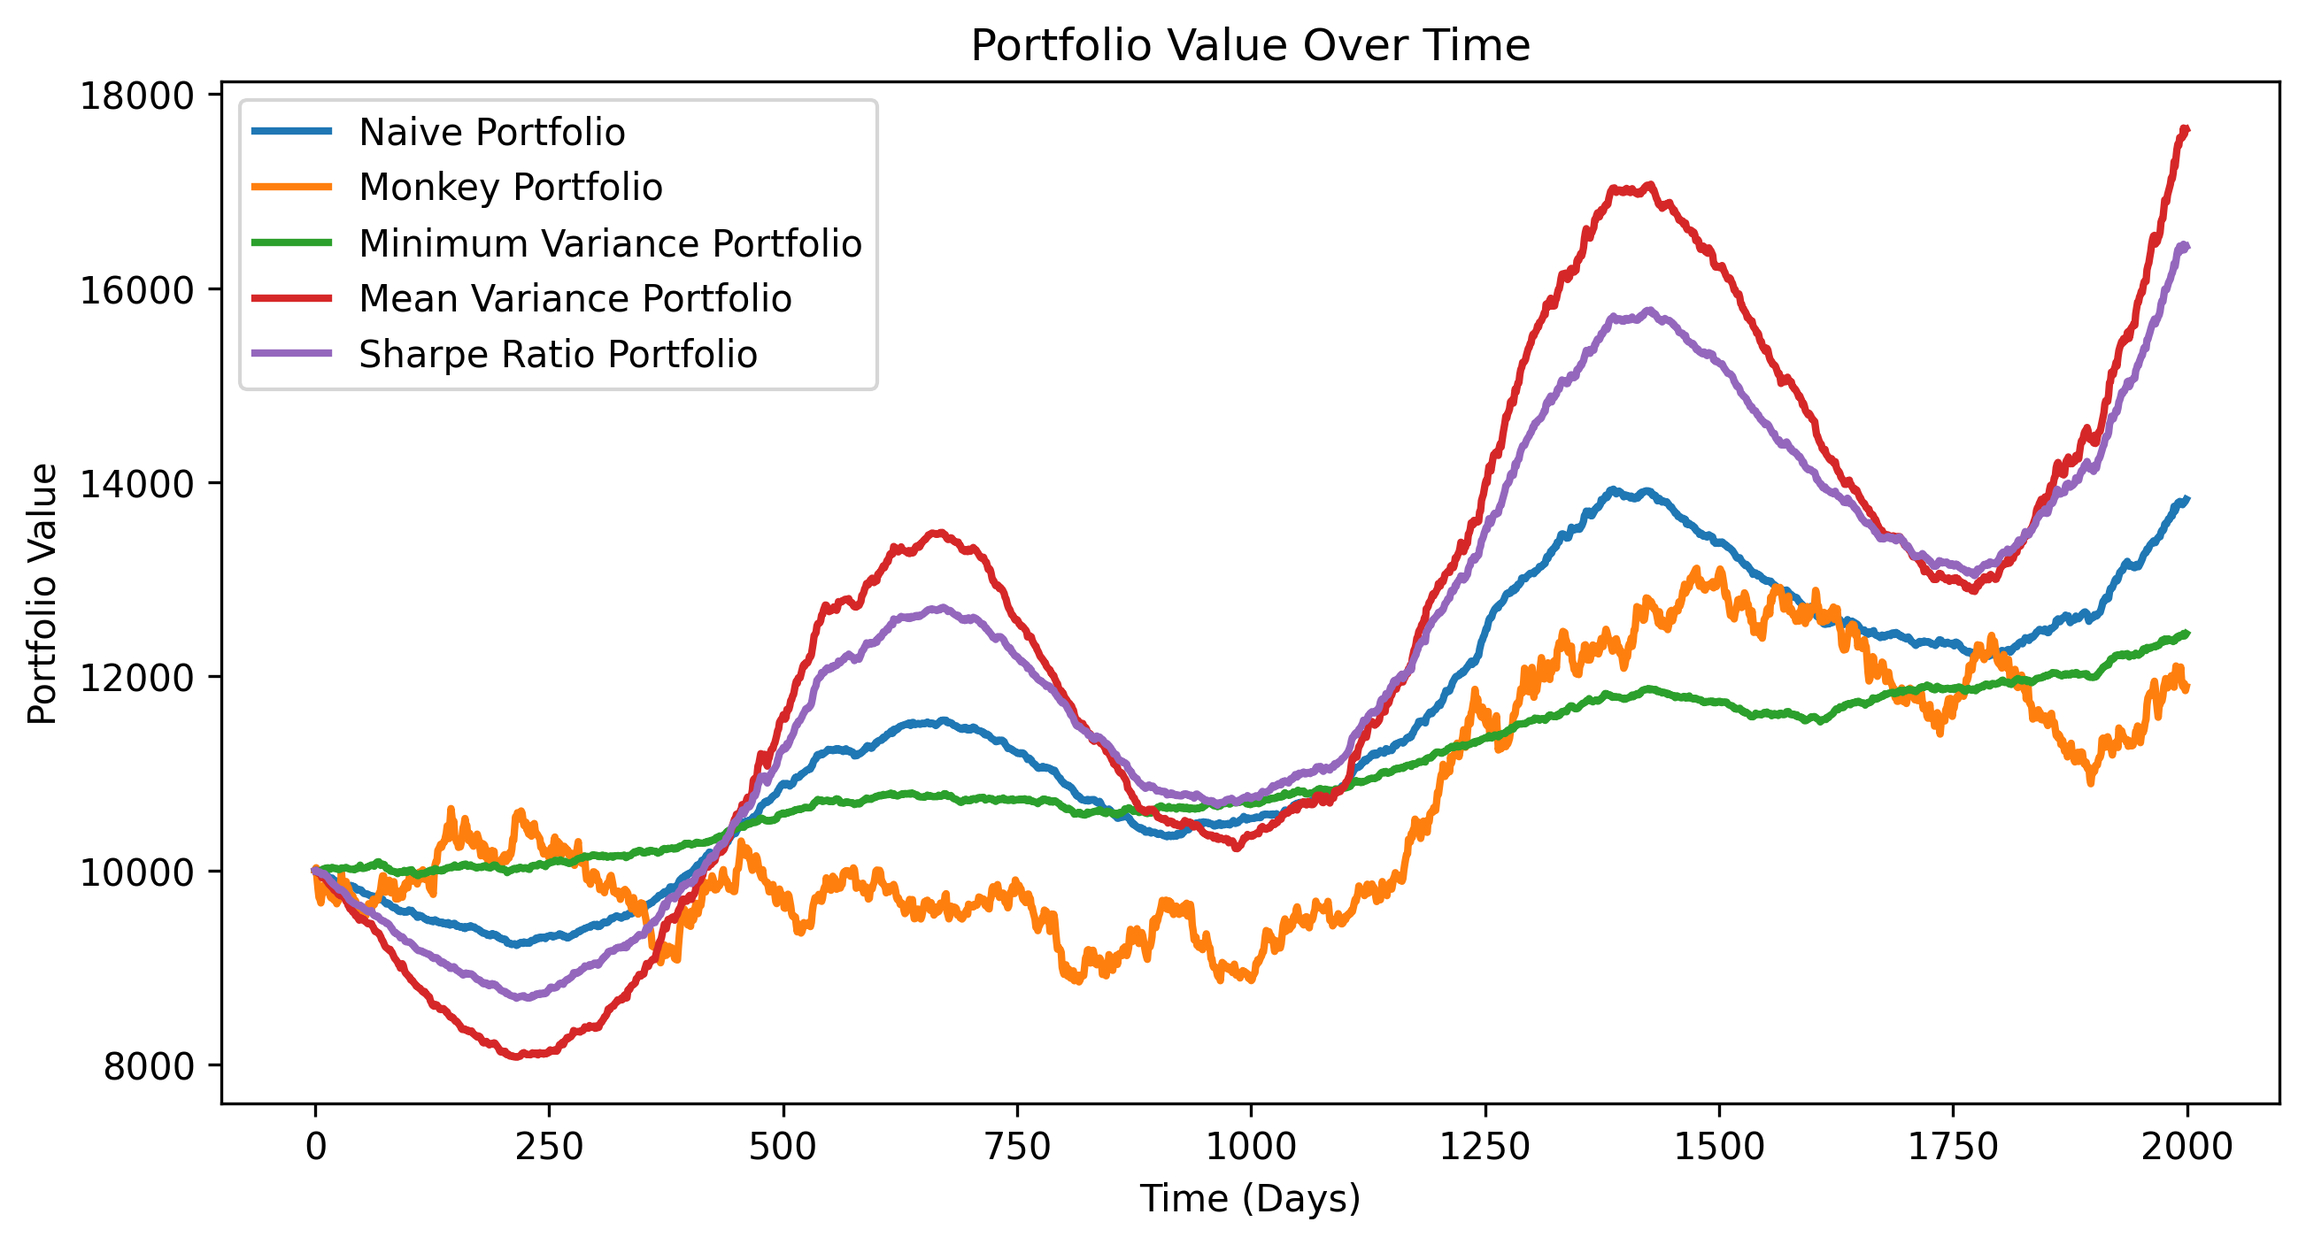
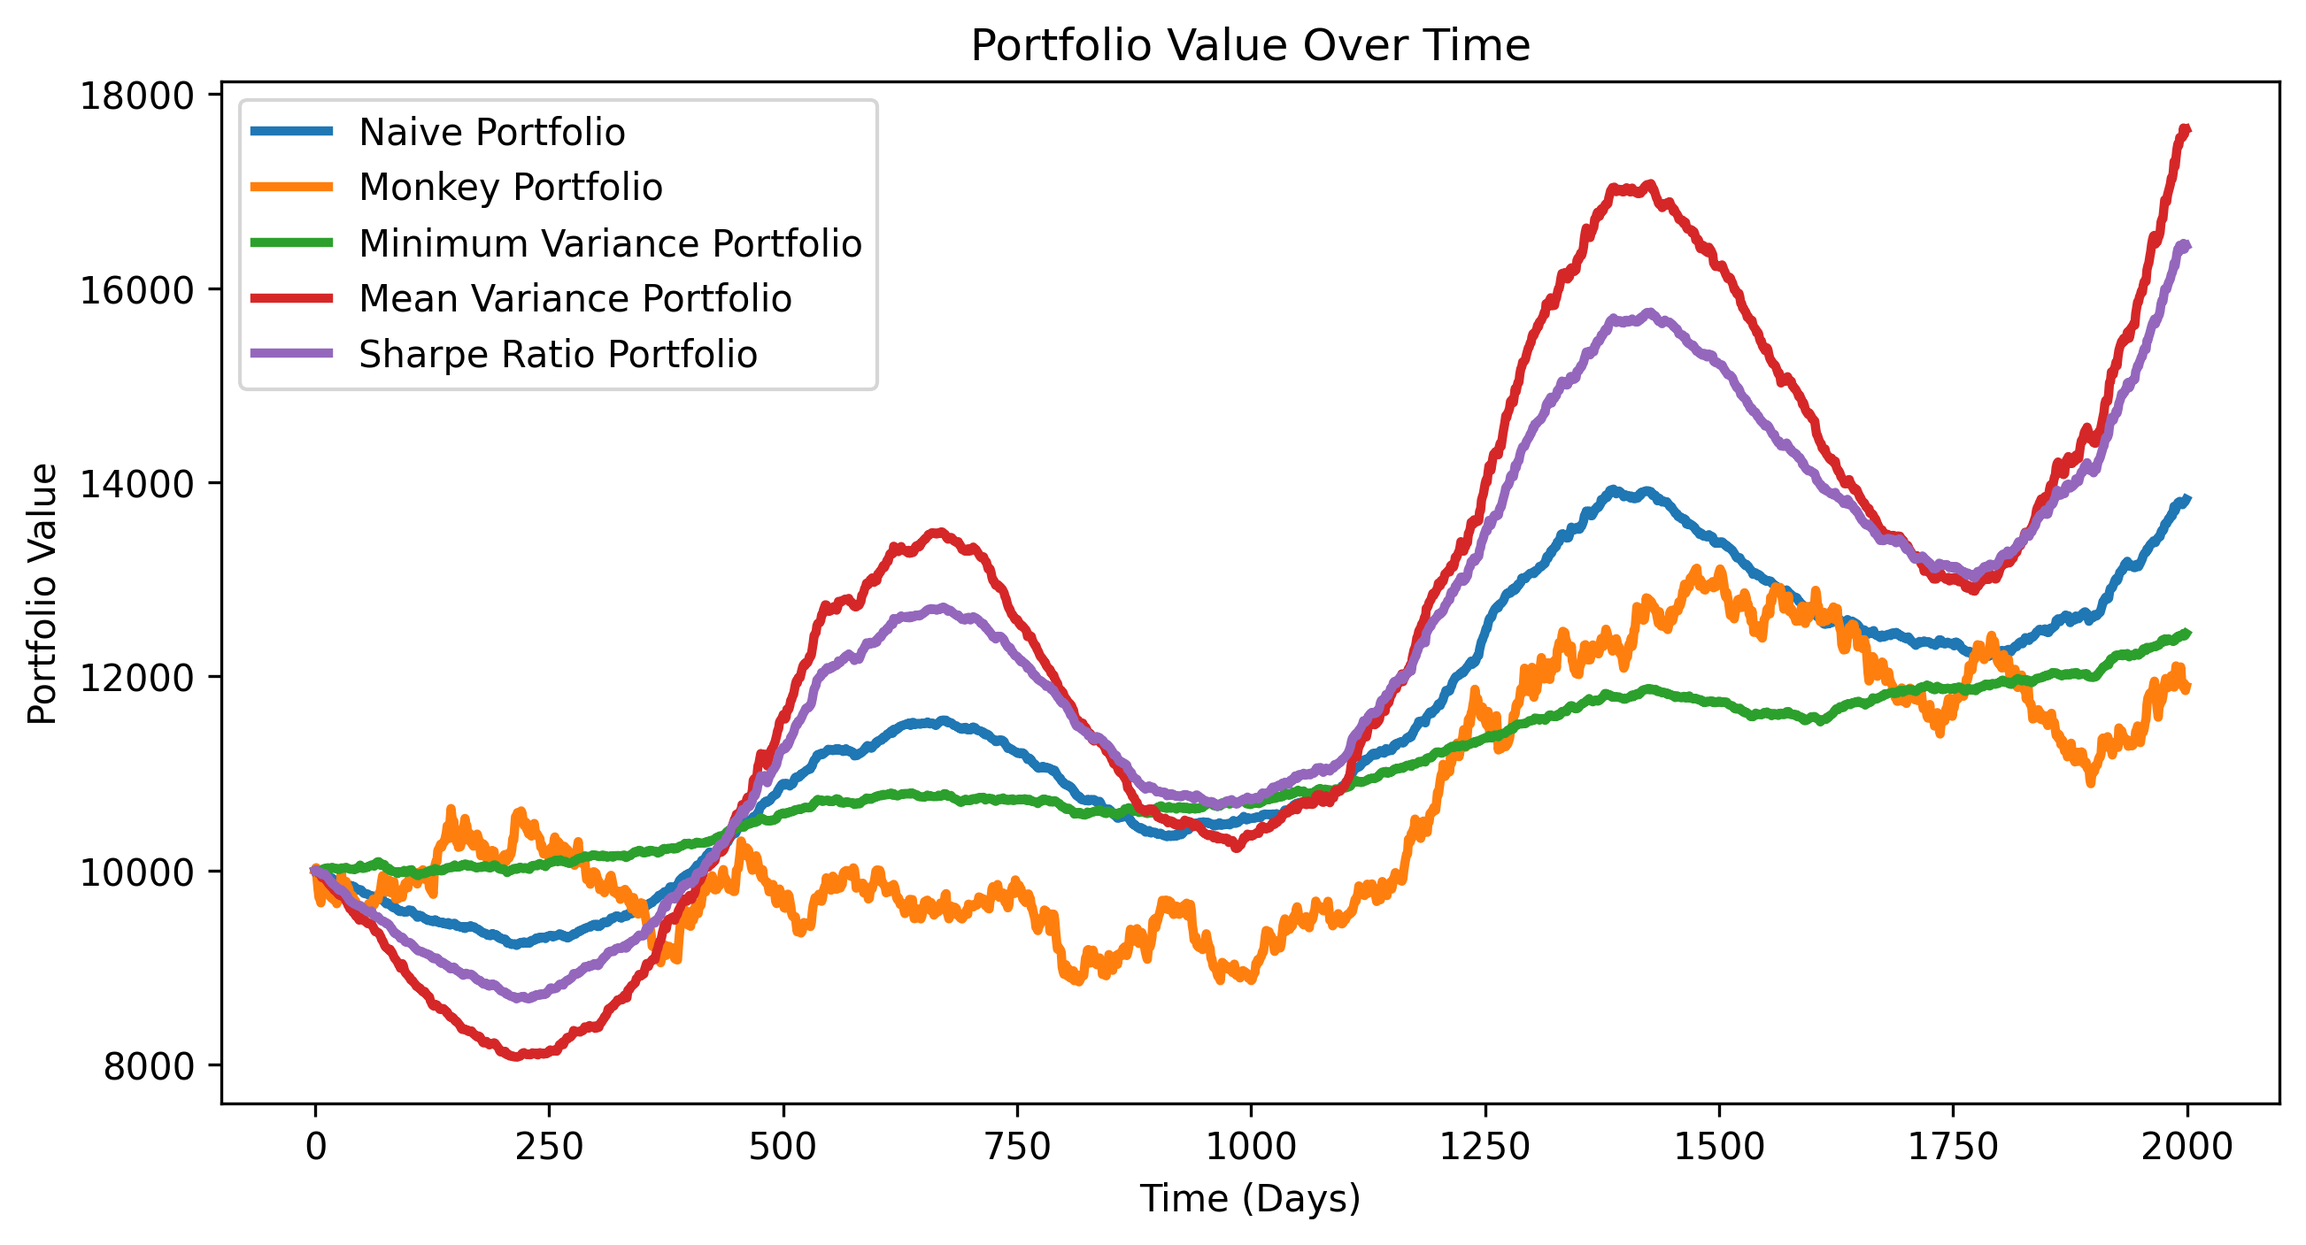
adding a table for performance metrics

diff --git a/Portfolio_examples/main.py b/Portfolio_examples/main.py
@@ -17,38 +17,124 @@ if __name__ == "__main__":
     # Run the naive portfolio example
     print("Naive Portfolio Example")
     print("===================================")
-    w_npf, p_npf = npf.main()
+    performance_npf, p_npf = npf.main()
 
     # Run the monkey portfolio example
     print("Monkey Portfolio Example")
     print("===================================")
-    w_mp, p_mp = mp.main()
+    performance_mp, p_mp = mp.main()
 
     # Run the minimum variance portfolio example
     print("Minimum Variance Portfolio Example")
     print("===================================")
-    w_mpv2, p_mpw2 = mvp2.main()
+    performance_mpv2, p_mpw2 = mvp2.main()
 
     # Run the mean variance portfolio example
     print("Mean Variance Portfolio Example")
     print("===================================")
-    w_mvp, p_mvp = mvp.main()
+    performance_mvp, p_mvp = mvp.main()
 
     # Run the sharpe ratio portfolio example
     print("Sharpe Ratio Portfolio Example")
     print("===================================")
-    w_srp, p_srp = srp.main()
+    performance_srp, p_srp = srp.main()
 
     # Plotting the results
     plt.figure(figsize=(10, 5))
-    plt.plot(p_npf, label='Naive Portfolio', linewidth=2)
-    plt.plot(p_mp, label='Monkey Portfolio', linewidth=2)
-    plt.plot(p_mpw2, label='Minimum Variance Portfolio', linewidth=2)
-    plt.plot(p_mvp, label='Mean Variance Portfolio', linewidth=2)
-    plt.plot(p_srp, label='Sharpe Ratio Portfolio', linewidth=2)
+    plt.plot(p_npf, label='Naive Portfolio', linewidth=2.5)
+    plt.plot(p_mp, label='Monkey Portfolio', linewidth=2.5)
+    plt.plot(p_mpw2, label='Minimum Variance Portfolio', linewidth=2.5)
+    plt.plot(p_mvp, label='Mean Variance Portfolio', linewidth=2.5)
+    plt.plot(p_srp, label='Sharpe Ratio Portfolio', linewidth=2.5)
     plt.title('Portfolio Value Over Time')
     plt.xlabel('Time (Days)')
     plt.ylabel('Portfolio Value')
     plt.legend()
     plt.savefig('../Imgs/Portfolio_Comparison.png', bbox_inches='tight', dpi=300)
     plt.show()
+
+    # Create a table with performance metrics for each portfolio
+    performance_table = pd.DataFrame({
+        'Portfolio': ['Naive', 'Monkey', 'Minimum Variance', 'Mean Variance', 'Sharpe Ratio'],
+        'Final Portfolio Value': [
+            performance_npf['Final Portfolio Value'],
+            performance_mp['Final Portfolio Value'],
+            performance_mpv2['Final Portfolio Value'],
+            performance_mvp['Final Portfolio Value'],
+            performance_srp['Final Portfolio Value']
+        ],
+        'Total Return (%)': [
+            performance_npf['Total Return (%)'],
+            performance_mp['Total Return (%)'],
+            performance_mpv2['Total Return (%)'],
+            performance_mvp['Total Return (%)'],
+            performance_srp['Total Return (%)']
+        ],
+        'Maximum Drawdown (%)': [
+            performance_npf['Maximum Drawdown (%)'],
+            performance_mp['Maximum Drawdown (%)'],
+            performance_mpv2['Maximum Drawdown (%)'],
+            performance_mvp['Maximum Drawdown (%)'],
+            performance_srp['Maximum Drawdown (%)']
+        ],
+        'Annualized Return (%)': [
+            performance_npf['Annualized Return (%)'],
+            performance_mp['Annualized Return (%)'],
+            performance_mpv2['Annualized Return (%)'],
+            performance_mvp['Annualized Return (%)'],
+            performance_srp['Annualized Return (%)']
+        ],
+        'Sharpe Ratio': [
+            performance_npf['Sharpe Ratio'],
+            performance_mp['Sharpe Ratio'],
+            performance_mpv2['Sharpe Ratio'],
+            performance_mvp['Sharpe Ratio'],
+            performance_srp['Sharpe Ratio']
+        ]
+    })
+    performance_table.set_index('Portfolio', inplace=True)
+
+    # Round the performance metrics to 2 decimal places
+    performance_table = performance_table.round(3)
+
+    # Do a nice plot of the performance metrics table
+    fig, ax = plt.subplots(figsize=(10, 2))  # Set the size of the figure
+    ax.axis('tight')
+    ax.axis('off')
+    table = ax.table(cellText=performance_table.values,
+                     colLabels=performance_table.columns,
+                     rowLabels=performance_table.index,
+                     cellLoc='center',
+                     loc='center')
+    table.auto_set_font_size(False)  # Activate auto font size
+    table.set_fontsize(10)  # Set font size
+    table.scale(1.2, 1.2)  # Scale the table to make it larger
+    # Color the table
+    for (i, j), cell in table.get_celld().items():
+        if i == 0 or j == -1:
+            cell.set_facecolor('#40466e')  # Header color
+            cell.set_text_props(color='w')  # Header text color
+        else:
+            cell.set_facecolor('#f1f1f2')  # Body color
+
+    # Color maximum and minimum values in each column with green and red
+    for j in range(len(performance_table.columns)):
+        col = performance_table.iloc[:, j]
+        max_val = col.max()
+        min_val = col.min()
+        for i in range(len(col)):
+            if col[i] == max_val:
+                table[(i + 1, j)].set_facecolor('#00FF00')  # Green for maximum
+            elif col[i] == min_val:
+                table[(i + 1, j)].set_facecolor('#FF0000')  # Red for minimum
+            
+    plt.title('Portfolio Performance Metrics Comparison', fontsize=14)
+    plt.savefig('../Imgs/Portfolio_Performance_Metrics.png', bbox_inches='tight', dpi=300)
+    plt.show()
+
+
+
+
+
+
+

diff --git a/Portfolio_examples/minimum_variance_portfolio.py b/Portfolio_examples/minimum_variance_portfolio.py
@@ -80,13 +80,29 @@ def main():
         portfolio_value = np.sum(current_prices * initial_investment_per_stock / purchase_price)
         portfolio_values[t] = portfolio_value
 
-    # Print the final portfolio value
-    print("Final Portfolio Value:", portfolio_values[-1])
-    print('Percentage Return:', 100*(portfolio_values[-1] - initial_capital) / initial_capital, '%')
-    print('Maximum Drawdown:', 100* np.min(portfolio_values - np.maximum.accumulate(portfolio_values)) / initial_capital, '%')
-    print('Yearly Percentage Return:', 100*((portfolio_values[-1] / initial_capital) ** (252 / len(portfolio_values)) - 1), '%')
+    # Performance Metrics
+    final_portfolio_value = portfolio_values[-1]
+    total_return_perc = 100 * (final_portfolio_value - initial_capital) / initial_capital
+    max_drawdown_perc = 100 * np.min(portfolio_values - np.maximum.accumulate(portfolio_values)) / initial_capital
+    annualized_return_perc = 100 * (((final_portfolio_value / initial_capital) ** (252 / n_obs)) - 1)
     daily_returns = portfolio_values[1:] / portfolio_values[:-1] - 1
-    print('Sharpe Ratio:', np.mean(daily_returns) / np.std(daily_returns))
+    sharp_ratio = np.mean(daily_returns) / np.std(daily_returns)
+
+    print("\nFinal Portfolio Value:", final_portfolio_value)
+    print('Total Return:', total_return_perc, '%')
+    print('Maximum Drawdown:', max_drawdown_perc, '%')
+    print('Annualized Return:', annualized_return_perc, '%')
+    print('Sharpe Ratio:', sharp_ratio)
+
+    # Create a dictionary to store performance metrics
+    performance_metrics = {
+        'Final Portfolio Value': final_portfolio_value,
+        'Total Return (%)': total_return_perc,
+        'Maximum Drawdown (%)': max_drawdown_perc,
+        'Annualized Return (%)': annualized_return_perc,
+        'Sharpe Ratio': sharp_ratio,
+        'mv_weights': mv_weights.tolist()
+    }
 
     # Plot portfolio value over time
     plt.figure(figsize=(12, 6))
@@ -97,7 +113,7 @@ def main():
     plt.legend()
     plt.show()
 
-    return mv_weights, portfolio_values
+    return performance_metrics, portfolio_values
 if __name__ == "__main__":
     main()
     

diff --git a/Portfolio_examples/monkey_portfolio.py b/Portfolio_examples/monkey_portfolio.py
@@ -47,12 +47,29 @@ def main():
         portfolio_value = np.sum(current_prices * initial_investment_per_stock / purchase_price)
         portfolio_values[t] = portfolio_value
 
-    print('Final Portfolio Value:', portfolio_values[-1])
-    print('Percentage Return:', 100*(portfolio_values[-1] - initial_capital) / initial_capital, '%')
-    print('Maximum Drawdown:', 100* np.min(portfolio_values - np.maximum.accumulate(portfolio_values)) / initial_capital, '%')
-    print('Yearly Percentage Return:', 100*((portfolio_values[-1] / initial_capital) ** (252 / n_obs) - 1), '%')
+    # Performance Metrics
+    final_portfolio_value = portfolio_values[-1]
+    total_return_perc = 100 * (final_portfolio_value - initial_capital) / initial_capital
+    max_drawdown_perc = 100 * np.min(portfolio_values - np.maximum.accumulate(portfolio_values)) / initial_capital
+    annualized_return_perc = 100 * (((final_portfolio_value / initial_capital) ** (252 / n_obs)) - 1)
     daily_returns = portfolio_values[1:] / portfolio_values[:-1] - 1
-    print('Sharpe Ratio:', np.mean(daily_returns) / np.std(daily_returns))
+    sharp_ratio = np.mean(daily_returns) / np.std(daily_returns)
+
+    print("\nFinal Portfolio Value:", final_portfolio_value)
+    print('Total Return:', total_return_perc, '%')
+    print('Maximum Drawdown:', max_drawdown_perc, '%')
+    print('Annualized Return:', annualized_return_perc, '%')
+    print('Sharpe Ratio:', sharp_ratio)
+
+    # Create a dictionary to store performance metrics
+    performance_metrics = {
+        'Final Portfolio Value': final_portfolio_value,
+        'Total Return (%)': total_return_perc,
+        'Maximum Drawdown (%)': max_drawdown_perc,
+        'Annualized Return (%)': annualized_return_perc,
+        'Sharpe Ratio': sharp_ratio,
+        'mv_weights': weights.tolist()
+    }
 
     # Plot the portfolio value over time
     plt.figure(figsize=(12, 6))
@@ -63,10 +80,7 @@ def main():
     plt.legend()
     plt.show()
 
-    
-
-
-    return weights, portfolio_values
+    return performance_metrics, portfolio_values
 
 if __name__ == "__main__":
     main()

diff --git a/Portfolio_examples/naive_portfolio.py b/Portfolio_examples/naive_portfolio.py
@@ -44,12 +44,29 @@ def main():
         portfolio_value = np.sum(current_prices * initial_investment_per_stock / purchase_price)
         portfolio_values[t] = portfolio_value
 
-    print('Final Portfolio Value:', portfolio_values[-1])
-    print('Percentage Return:', 100*(portfolio_values[-1] - initial_capital) / initial_capital, '%')
-    print('Maximum Drawdown:', 100* np.min(portfolio_values - np.maximum.accumulate(portfolio_values)) / initial_capital, '%')
-    print('Yearly Percentage Return:', 100*((portfolio_values[-1] / initial_capital) ** (252 / n_obs) - 1), '%')
+    # Performance Metrics
+    final_portfolio_value = portfolio_values[-1]
+    total_return_perc = 100 * (final_portfolio_value - initial_capital) / initial_capital
+    max_drawdown_perc = 100 * np.min(portfolio_values - np.maximum.accumulate(portfolio_values)) / initial_capital
+    annualized_return_perc = 100 * (((final_portfolio_value / initial_capital) ** (252 / n_obs)) - 1)
     daily_returns = portfolio_values[1:] / portfolio_values[:-1] - 1
-    print('Sharpe Ratio:', np.mean(daily_returns) / np.std(daily_returns))
+    sharp_ratio = np.mean(daily_returns) / np.std(daily_returns)
+
+    print("\nFinal Portfolio Value:", final_portfolio_value)
+    print('Total Return:', total_return_perc, '%')
+    print('Maximum Drawdown:', max_drawdown_perc, '%')
+    print('Annualized Return:', annualized_return_perc, '%')
+    print('Sharpe Ratio:', sharp_ratio)
+
+    # Create a dictionary to store performance metrics
+    performance_metrics = {
+        'Final Portfolio Value': final_portfolio_value,
+        'Total Return (%)': total_return_perc,
+        'Maximum Drawdown (%)': max_drawdown_perc,
+        'Annualized Return (%)': annualized_return_perc,
+        'Sharpe Ratio': sharp_ratio,
+        'mv_weights': weights.tolist()
+    }
 
     # Plot the portfolio value over time
     plt.figure(figsize=(12, 6))
@@ -60,7 +77,7 @@ def main():
     plt.legend()
     plt.show()
 
-    return weights, portfolio_values
+    return performance_metrics, portfolio_values
 
 if __name__ == "__main__":
     main()

diff --git a/Portfolio_examples/mean_variance_portfolio.py b/Portfolio_examples/mean_variance_portfolio.py
@@ -71,13 +71,28 @@ def main():
         portfolio_values[t] = portfolio_value
 
     # Performance Metrics
-    print("\nFinal Portfolio Value:", portfolio_values[-1])
-    print('Total Return:', 100 * (portfolio_values[-1] - initial_capital) / initial_capital, '%')
-    print('Maximum Drawdown:', 100 * np.min(portfolio_values - np.maximum.accumulate(portfolio_values)) / initial_capital, '%')
-    annualized_return = 100 * ((portfolio_values[-1] / initial_capital) ** (252 / len(portfolio_values)) - 1)
-    print('Annualized Return:', annualized_return, '%')
+    final_portfolio_value = portfolio_values[-1]
+    total_return_perc = 100 * (final_portfolio_value - initial_capital) / initial_capital
+    max_drawdown_perc = 100 * np.min(portfolio_values - np.maximum.accumulate(portfolio_values)) / initial_capital
+    annualized_return_perc = 100 * (((final_portfolio_value / initial_capital) ** (252 / n_obs)) - 1)
     daily_returns = portfolio_values[1:] / portfolio_values[:-1] - 1
-    print('Sharpe Ratio:', np.mean(daily_returns) / np.std(daily_returns))
+    sharp_ratio = np.mean(daily_returns) / np.std(daily_returns)
+
+    print("\nFinal Portfolio Value:", final_portfolio_value)
+    print('Total Return:', total_return_perc, '%')
+    print('Maximum Drawdown:', max_drawdown_perc, '%')
+    print('Annualized Return:', annualized_return_perc, '%')
+    print('Sharpe Ratio:', sharp_ratio)
+
+    # Create a dictionary to store performance metrics
+    performance_metrics = {
+        'Final Portfolio Value': final_portfolio_value,
+        'Total Return (%)': total_return_perc,
+        'Maximum Drawdown (%)': max_drawdown_perc,
+        'Annualized Return (%)': annualized_return_perc,
+        'Sharpe Ratio': sharp_ratio,
+        'mv_weights': mv_weights.tolist()
+    }
 
     # Plot portfolio value over time
     plt.figure(figsize=(12, 6))
@@ -88,7 +103,7 @@ def main():
     plt.legend()
     plt.show()
 
-    return mv_weights, portfolio_values
+    return performance_metrics, portfolio_values
 
 if __name__ == "__main__":
     main()

diff --git a/Portfolio_examples/sharpe_ratio_portfolio.py b/Portfolio_examples/sharpe_ratio_portfolio.py
@@ -64,13 +64,28 @@ def main():
         portfolio_values[t] = portfolio_value
 
     # Performance Metrics
-    print("\nFinal Portfolio Value:", portfolio_values[-1])
-    print('Total Return:', 100 * (portfolio_values[-1] - initial_capital) / initial_capital, '%')
-    print('Maximum Drawdown:', 100 * np.min(portfolio_values - np.maximum.accumulate(portfolio_values)) / initial_capital, '%')
-    annualized_return = 100 * ((portfolio_values[-1] / initial_capital) ** (252 / len(portfolio_values)) - 1)
-    print('Annualized Return:', annualized_return, '%')
+    final_portfolio_value = portfolio_values[-1]
+    total_return_perc = 100 * (final_portfolio_value - initial_capital) / initial_capital
+    max_drawdown_perc = 100 * np.min(portfolio_values - np.maximum.accumulate(portfolio_values)) / initial_capital
+    annualized_return_perc = 100 * (((final_portfolio_value / initial_capital) ** (252 / n_obs)) - 1)
     daily_returns = portfolio_values[1:] / portfolio_values[:-1] - 1
-    print('Sharpe Ratio:', np.mean(daily_returns) / np.std(daily_returns))
+    sharp_ratio = np.mean(daily_returns) / np.std(daily_returns)
+
+    print("\nFinal Portfolio Value:", final_portfolio_value)
+    print('Total Return:', total_return_perc, '%')
+    print('Maximum Drawdown:', max_drawdown_perc, '%')
+    print('Annualized Return:', annualized_return_perc, '%')
+    print('Sharpe Ratio:', sharp_ratio)
+
+    # Create a dictionary to store performance metrics
+    performance_metrics = {
+        'Final Portfolio Value': final_portfolio_value,
+        'Total Return (%)': total_return_perc,
+        'Maximum Drawdown (%)': max_drawdown_perc,
+        'Annualized Return (%)': annualized_return_perc,
+        'Sharpe Ratio': sharp_ratio,
+        'mv_weights': opt_weights.tolist()
+    }
 
     # Plot
     plt.figure(figsize=(12, 6))
@@ -81,7 +96,7 @@ def main():
     plt.legend()
     plt.show()
 
-    return opt_weights, portfolio_values
+    return performance_metrics, portfolio_values
 
 if __name__ == "__main__":
     main()

diff --git a/README.md b/README.md
@@ -45,6 +45,13 @@ To establish a baseline for different portfolio strategies, five example strateg
 <img src="Imgs/Portfolio_Comparison.png" alt="Comparison between different portfolio strategies" width="700"> 
 </p>
 
+The table below highlights performance across different metrics. Green indicates the best performance for a given metric, while red marks the worst.
+
+<p align="center"> 
+<img src="Imgs/Portfolio_Performance_Metrics.png" alt="Portfolio performance on different metrics" width="700"> 
+</p>
+
+
 ## Installation
 To run this project, ensure you have the following dependencies installed:
 ```bash
